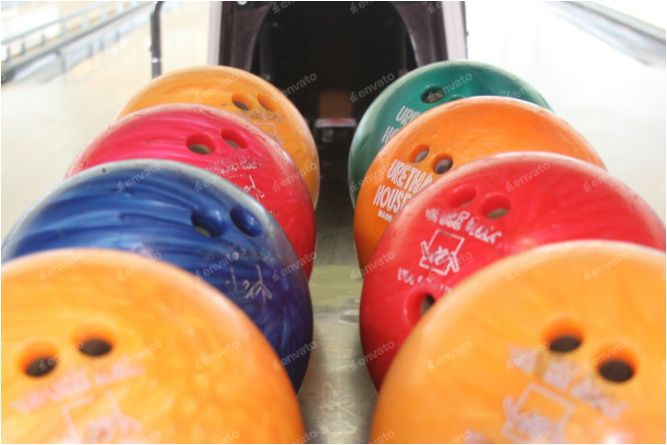
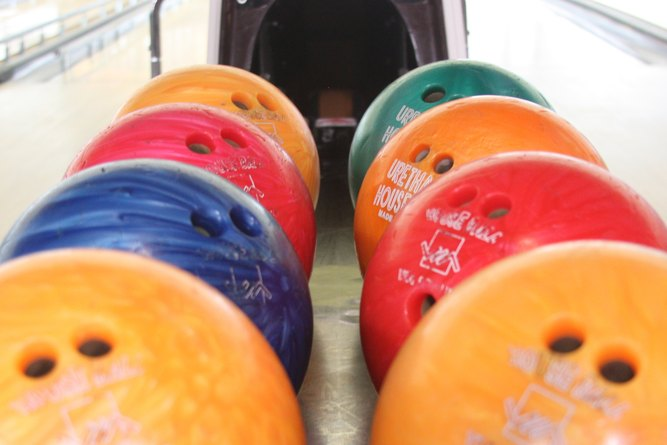
S14: swap in the licensed bowling-ball photo
Replaces the watermarked Envato comp with the licensed file
(colorful-bowling-balls-waiting-to-be-used-2026-01-07-05-51-36-utc.jpg), the
last of the four Envato placeholders in this component.

Sized to exactly what it replaces, 667x445. The source is 2848x1898 -- 1.50053
against the target's 1.49888 -- so it is centre-cropped to the target ratio
first (trimming 3px of width) and only then resized, rather than resized
straight to 667x445 and left very slightly stretched. Verified in the browser:
natural ratio and rendered ratio agree to four decimals, 0% distortion, drawn at
494x330 design px inside the 500px .scq-figure.

Two things the swap dragged in:

- The file is replaced IN PLACE under the same name, which is the trap the
  character sprites already taught us: a browser holding the comp keeps showing
  it. The src carries ?v=2 now. Confirmed by SHA-256 of what the browser
  actually received (ddc42d5b, 44415 bytes) against the file on disk -- they
  match, and both differ from the comp (6c037991, 38829 bytes).
- The alt text said "כדור באולינג שחור על פס ייצור במפעל" -- a black ball on a
  factory production line. That described neither photo; both show colourful
  balls on a return rack. Rewritten to match what is actually there.

No CSS or JS changed, so no other version tags move. checks.mjs: all 5 gates pass.

diff --git a/methodica-science-volume-solid-01-01/index.html b/methodica-science-volume-solid-01-01/index.html
@@ -918,7 +918,7 @@
     </nav>
     <div class="scq-question scq-question--withimage">
       <div class="scq-figure">
-        <img src="assets/img/s14-bowling-ball.jpg" alt="כדור באולינג שחור על פס ייצור במפעל">
+        <img src="assets/img/s14-bowling-ball.jpg?v=2" alt="כדורי באולינג צבעוניים מונחים בשני טורים על מסילת החזרה">
       </div>
       <div class="scq-side">
       <p class="scq-qtext">במפעל לייצור כדורי באולינג קרתה תקלה המשפיעה על נפח הכדורים ועלולה לפגום ביכולת לשחק עם הכדורים.<br><br>לאחר תיקון התקלה מנהל המפעל רצה לבדוק את הנפח של הכדור האחרון שיצא מפס הייצור כדי לוודא שהתקלה אכן נפתרה.<br><br><strong>איזו שיטה מתאימה למדידת נפח הכדור?</strong></p>
